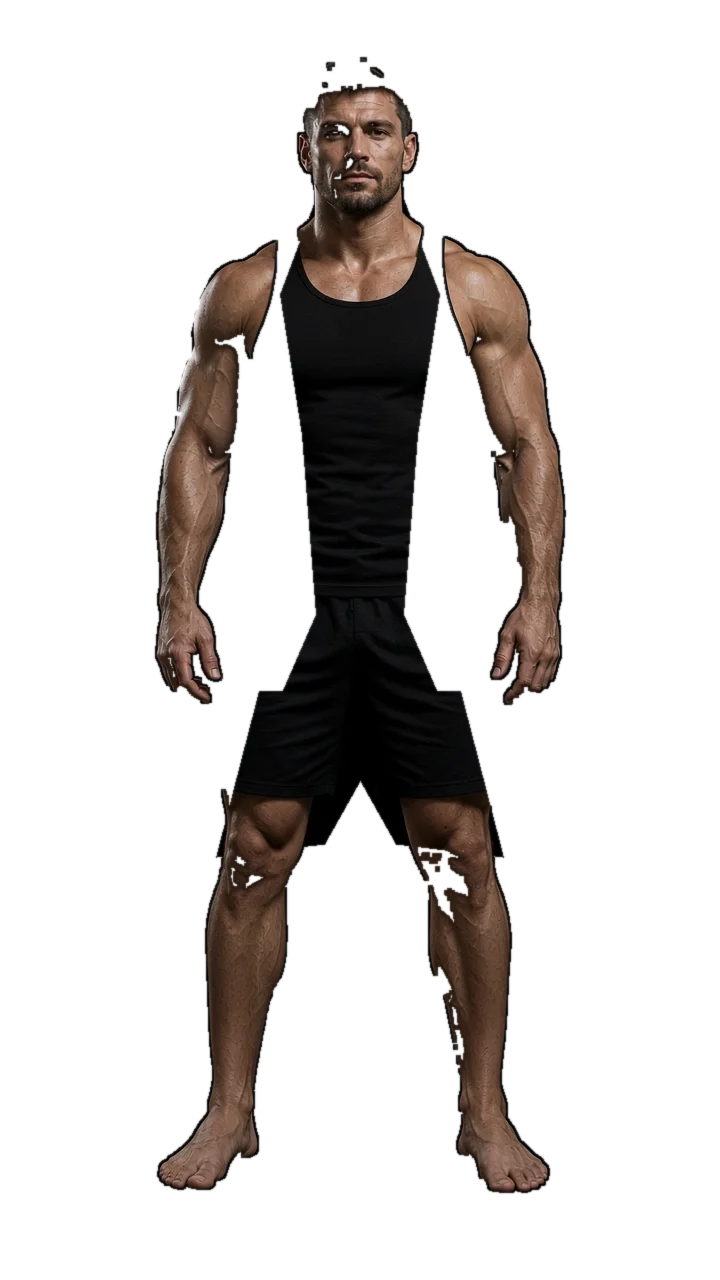
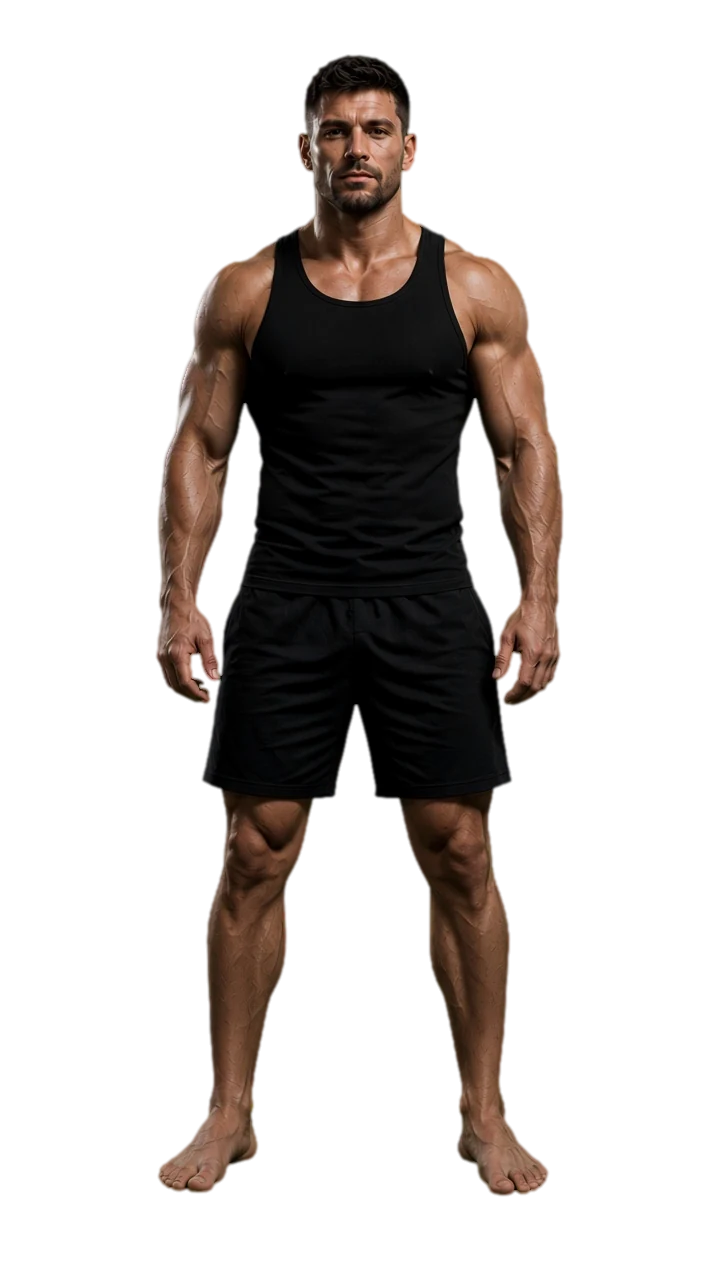
Soften bag-round glow to follow the limb silhouette.
Replace the polyline halos with a feathered cutout and blurred, dilated #CBF805 masks behind the figure, and clear the dev overlay hydration and LCP warnings.

diff --git a/src/lib/bag-glow.ts b/src/lib/bag-glow.ts
@@ -2,18 +2,27 @@ import type { BagRegion, BagSide } from "@/lib/bag-body";
 
 /**
  * Backlit halos on the forward-facing athlete cutout (720×1280).
- * Points are photo pixels. The stroke sits behind the silhouette, so the
- * body covers the middle and the neon reads as a rim.
+ * Each id is a pre-rendered #CBF805 layer: a blurred, dilated copy of that
+ * body region's alpha, drawn behind the cutout so only the rim shows.
  * Anatomical left is the viewer's right (orthodox lead side).
+ * Bounds are photo pixels of the masked region.
  */
+export const GLOW_COLOR = "#CBF805";
+
 export type BodyGlow = {
   id: string;
   label: string;
   region: BagRegion | null;
   side: "left" | "right" | "mid";
-  points: readonly (readonly [number, number])[];
-  width: number;
+  top: number;
+  bottom: number;
+  left: number;
+  right: number;
 };
+
+export function glowSrc(id: string) {
+  return `/bagwork/glow/${id}.webp`;
+}
 
 export type BodyTap = {
   id: string;
@@ -25,45 +34,31 @@ export type BodyTap = {
 };
 
 const SHAPES: readonly BodyGlow[] = [
-  { id: "neck", label: "Neck", region: "neck", side: "mid", width: 54, points: [[360, 200], [360, 250]] },
-  { id: "rear-trap", label: "Traps", region: "traps", side: "right", width: 50, points: [[300, 250], [330, 290]] },
-  { id: "lead-trap", label: "Traps", region: "traps", side: "left", width: 50, points: [[420, 250], [390, 290]] },
-  { id: "chest", label: "Chest", region: "chest", side: "mid", width: 120, points: [[360, 340], [360, 430]] },
-  { id: "core", label: "Core", region: "core", side: "mid", width: 130, points: [[360, 430], [360, 620]] },
-  { id: "rear-lat", label: "Lats", region: "lats", side: "right", width: 72, points: [[300, 440], [312, 580]] },
-  { id: "lead-lat", label: "Lats", region: "lats", side: "left", width: 72, points: [[420, 440], [408, 580]] },
-  {
-    id: "rear-arm",
-    label: "Arms",
-    region: "arms",
-    side: "right",
-    width: 100,
-    points: [[238, 294], [209, 384], [194, 461], [185, 538], [179, 614], [184, 670]],
-  },
-  {
-    id: "lead-arm",
-    label: "Arms",
-    region: "arms",
-    side: "left",
-    width: 100,
-    points: [[482, 294], [512, 384], [529, 461], [540, 538], [540, 614], [526, 670]],
-  },
-  { id: "rear-oblique", label: "Obliques", region: "obliques", side: "right", width: 70, points: [[292, 560], [304, 680]] },
-  { id: "lead-oblique", label: "Obliques", region: "obliques", side: "left", width: 70, points: [[428, 560], [416, 680]] },
-  { id: "rear-hip", label: "Hips", region: "hips", side: "right", width: 78, points: [[276, 700], [292, 790]] },
-  { id: "lead-hip", label: "Hips", region: "hips", side: "left", width: 78, points: [[444, 700], [428, 790]] },
-  { id: "rear-flexor", label: "Hip flexors", region: "hip-flexors", side: "right", width: 56, points: [[320, 720], [330, 800]] },
-  { id: "lead-flexor", label: "Hip flexors", region: "hip-flexors", side: "left", width: 56, points: [[400, 720], [390, 800]] },
-  { id: "rear-glute", label: "Glutes", region: "glutes", side: "right", width: 70, points: [[270, 740], [290, 820]] },
-  { id: "lead-glute", label: "Glutes", region: "glutes", side: "left", width: 70, points: [[450, 740], [430, 820]] },
-  { id: "rear-quad", label: "Quads", region: "legs", side: "right", width: 72, points: [[268, 830], [250, 960]] },
-  { id: "lead-quad", label: "Quads", region: "legs", side: "left", width: 72, points: [[460, 830], [478, 960]] },
-  { id: "rear-knee", label: "Knees", region: "knees", side: "right", width: 52, points: [[248, 940], [244, 1000]] },
-  { id: "lead-knee", label: "Knees", region: "knees", side: "left", width: 52, points: [[470, 940], [478, 1000]] },
-  { id: "rear-shin", label: "Shins", region: "shins", side: "right", width: 48, points: [[240, 1000], [230, 1120]] },
-  { id: "lead-shin", label: "Shins", region: "shins", side: "left", width: 48, points: [[480, 1000], [492, 1120]] },
-  { id: "rear-foot", label: "Feet", region: "feet", side: "right", width: 56, points: [[210, 1140], [230, 1180]] },
-  { id: "lead-foot", label: "Feet", region: "feet", side: "left", width: 56, points: [[500, 1140], [530, 1180]] },
+  { id: "neck", label: "Neck", region: "neck", side: "mid", top: 180, bottom: 259, left: 288, right: 431 },
+  { id: "rear-trap", label: "Traps", region: "traps", side: "right", top: 220, bottom: 309, left: 197, right: 345 },
+  { id: "lead-trap", label: "Traps", region: "traps", side: "left", top: 220, bottom: 309, left: 375, right: 525 },
+  { id: "chest", label: "Chest", region: "chest", side: "mid", top: 300, bottom: 429, left: 288, right: 431 },
+  { id: "core", label: "Core", region: "core", side: "mid", top: 420, bottom: 689, left: 202, right: 559 },
+  { id: "rear-lat", label: "Lats", region: "lats", side: "right", top: 440, bottom: 599, left: 235, right: 298 },
+  { id: "lead-lat", label: "Lats", region: "lats", side: "left", top: 440, bottom: 599, left: 421, right: 479 },
+  { id: "rear-arm", label: "Arms", region: "arms", side: "right", top: 241, bottom: 720, left: 157, right: 342 },
+  { id: "lead-arm", label: "Arms", region: "arms", side: "left", top: 241, bottom: 704, left: 401, right: 562 },
+  { id: "rear-oblique", label: "Obliques", region: "obliques", side: "right", top: 540, bottom: 699, left: 202, right: 290 },
+  { id: "lead-oblique", label: "Obliques", region: "obliques", side: "left", top: 540, bottom: 699, left: 426, right: 559 },
+  { id: "rear-hip", label: "Hips", region: "hips", side: "right", top: 680, bottom: 829, left: 203, right: 397 },
+  { id: "lead-hip", label: "Hips", region: "hips", side: "left", top: 680, bottom: 829, left: 452, right: 529 },
+  { id: "rear-flexor", label: "Hip flexors", region: "hip-flexors", side: "right", top: 720, bottom: 879, left: 255, right: 349 },
+  { id: "lead-flexor", label: "Hip flexors", region: "hip-flexors", side: "left", top: 720, bottom: 879, left: 362, right: 457 },
+  { id: "rear-glute", label: "Glutes", region: "glutes", side: "right", top: 700, bottom: 839, left: 192, right: 262 },
+  { id: "lead-glute", label: "Glutes", region: "glutes", side: "left", top: 700, bottom: 839, left: 452, right: 525 },
+  { id: "rear-quad", label: "Quads", region: "legs", side: "right", top: 800, bottom: 999, left: 207, right: 312 },
+  { id: "lead-quad", label: "Quads", region: "legs", side: "left", top: 800, bottom: 999, left: 400, right: 508 },
+  { id: "rear-knee", label: "Knees", region: "knees", side: "right", top: 930, bottom: 1039, left: 207, right: 285 },
+  { id: "lead-knee", label: "Knees", region: "knees", side: "left", top: 930, bottom: 1039, left: 430, right: 508 },
+  { id: "rear-shin", label: "Shins", region: "shins", side: "right", top: 1000, bottom: 1159, left: 171, right: 269 },
+  { id: "lead-shin", label: "Shins", region: "shins", side: "left", top: 1000, bottom: 1159, left: 445, right: 536 },
+  { id: "rear-foot", label: "Feet", region: "feet", side: "right", top: 1120, bottom: 1191, left: 159, right: 256 },
+  { id: "lead-foot", label: "Feet", region: "feet", side: "left", top: 1120, bottom: 1194, left: 458, right: 547 },
 ];
 
 const TAPS: readonly BodyTap[] = [
@@ -116,7 +111,7 @@ const REGION_SHAPES: Record<BagRegion, readonly string[]> = {
   feet: ["rear-foot", "lead-foot"],
 };
 
-/** Per-workout focus. Strokes run the length of the area and render behind the figure. */
+/** Per-workout focus. Each id is a soft rim rendered behind the figure. */
 const ROUND_FOCUS: Record<string, readonly string[]> = {
   "all-hooks": ["rear-arm", "lead-arm", "rear-oblique", "lead-oblique", "rear-hip", "lead-hip"],
   "all-overhands": ["rear-arm", "lead-arm", "rear-oblique", "lead-oblique", "rear-hip", "lead-hip"],
@@ -194,6 +189,6 @@ export function regionTapSpots(side: BagSide = "both") {
 
 /** Shoulder-to-hand span. A hook round lights the whole arm, not an elbow dot. */
 export function armSpan(glow: BodyGlow) {
-  const ys = glow.points.map((point) => point[1]);
-  return { top: Math.min(...ys), bottom: Math.max(...ys), points: glow.points.length };
+  const reach = glow.bottom - glow.top;
+  return { top: glow.top, bottom: glow.bottom, points: reach > 360 ? 6 : 2 };
 }

diff --git a/tests/bag-glow.test.ts b/tests/bag-glow.test.ts
@@ -32,7 +32,9 @@ describe("bag round glows", () => {
       expect(span.points).toBeGreaterThanOrEqual(5);
       expect(span.top).toBeLessThan(320);
       expect(span.bottom).toBeGreaterThan(640);
-      expect(arm.width).toBeGreaterThanOrEqual(80);
+      expect(span.bottom - span.top).toBeGreaterThan(400);
+      expect(arm.right - arm.left).toBeGreaterThan(40);
+      expect(arm.right - arm.left).toBeLessThan(400);
     }
     expect(glowCaption(hooks)).toBe("Arms, Obliques, Hips");
   });
@@ -63,10 +65,63 @@ describe("bag round glows", () => {
     expect(right).toContain("core");
   });
 
-  it("paints the halo behind the cutout", () => {
+  it("paints a soft limb halo behind the cutout", async () => {
     const source = fs.readFileSync(path.join(process.cwd(), "src/components/bagwork/BagBodyMap.tsx"), "utf8");
-    expect(source.indexOf('data-glow-layer="behind"')).toBeLessThan(source.indexOf("<img"));
-    expect(source).toContain('stroke="#CBF805"');
+    expect(source.indexOf('data-glow-layer="behind"')).toBeLessThan(source.indexOf("data-athlete"));
+    expect(source).toContain("data-glow-color={GLOW_COLOR}");
+    const glow = fs.readFileSync(path.join(process.cwd(), "src/lib/bag-glow.ts"), "utf8");
+    expect(glow).toContain('"#CBF805"');
+    expect(source).toContain('loading="eager"');
+    expect(source).toContain("glowSrc(id)");
+    expect(glow).toContain("/bagwork/glow/");
+    expect(source).not.toContain("<polyline");
+    expect(source).not.toContain("strokeWidth");
     expect(source).not.toContain("mixBlendMode");
+
+    const sharp = (await import("sharp")).default;
+    const file = path.join(process.cwd(), "public/bagwork/glow/rear-arm.webp");
+    const { data, info } = await sharp(file).ensureAlpha().raw().toBuffer({ resolveWithObject: true });
+    expect(info.width).toBe(720);
+    expect(info.height).toBe(1280);
+    let partial = 0;
+    let hard = 0;
+    let lime = 0;
+    let colored = 0;
+    for (let i = 0; i < data.length; i += 4) {
+      const alpha = data[i + 3] ?? 0;
+      if (alpha > 12 && alpha < 250) partial += 1;
+      if (alpha >= 250) hard += 1;
+      if (alpha > 80) {
+        colored += 1;
+        const red = data[i] ?? 0;
+        const green = data[i + 1] ?? 0;
+        const blue = data[i + 2] ?? 0;
+        if (green > red && green > blue && red > 150 && blue < 40) lime += 1;
+      }
+    }
+    expect(partial).toBeGreaterThan(20000);
+    expect(partial / (partial + hard)).toBeGreaterThan(0.35);
+    expect(lime / colored).toBeGreaterThan(0.9);
+    const torso = (520 * info.width + 360) * 4;
+    expect(data[torso + 3]).toBeLessThan(8);
+
+    const athlete = path.join(process.cwd(), "public/bagwork/athlete-front.webp");
+    const cut = await sharp(athlete).ensureAlpha().raw().toBuffer({ resolveWithObject: true });
+    const cutAlpha = cut.data;
+    const width = cut.info.width;
+    let steps = 0;
+    let prev = -1;
+    for (let y = 430; y < 620; y += 1) {
+      let edge = -1;
+      for (let x = 0; x < width; x += 1) {
+        if ((cutAlpha[(y * width + x) * 4 + 3] ?? 0) > 128) {
+          edge = x;
+          break;
+        }
+      }
+      if (prev >= 0 && edge >= 0 && Math.abs(edge - prev) >= 3) steps += 1;
+      if (edge >= 0) prev = edge;
+    }
+    expect(steps).toBe(0);
   });
 });

diff --git a/src/components/bagwork/BagBodyMap.tsx b/src/components/bagwork/BagBodyMap.tsx
@@ -1,41 +1,33 @@
 "use client";
 
-import { useId } from "react";
 import { BAG_REGION_LABELS, formatBagRegions, type BagRegion, type BagSide } from "@/lib/bag-body";
-import { focusGlows, glowCaption, regionTapSpots, type BodyGlow } from "@/lib/bag-glow";
+import { focusGlows, GLOW_COLOR, glowCaption, glowSrc, regionTapSpots } from "@/lib/bag-glow";
 
 const ATHLETE = "/bagwork/athlete-front.webp";
 
-function BehindGlow({ glows }: { glows: readonly BodyGlow[] }) {
-  const filterId = `body-rim-${useId().replace(/:/g, "")}`;
+function BehindGlow({ ids }: { ids: readonly string[] }) {
+  if (!ids.length) return null;
   return (
-    <svg
-      className="pointer-events-none absolute inset-0 z-0 h-full w-full"
-      viewBox="0 0 720 1280"
-      preserveAspectRatio="none"
-      aria-hidden
-      data-body-glows
+    <div
+      className="pointer-events-none absolute inset-0 z-0"
       data-glow-layer="behind"
+      data-glow-color={GLOW_COLOR}
+      aria-hidden
     >
-      <defs>
-        <filter id={filterId} x="-60%" y="-60%" width="220%" height="220%">
-          <feGaussianBlur stdDeviation="14" />
-        </filter>
-      </defs>
-      {glows.map((glow) => (
-        <polyline
-          key={glow.id}
-          data-body-glow={glow.id}
-          points={glow.points.map(([x, y]) => `${x},${y}`).join(" ")}
-          fill="none"
-          stroke="#CBF805"
-          strokeWidth={glow.width}
-          strokeLinecap="round"
-          strokeLinejoin="round"
-          filter={`url(#${filterId})`}
+      {ids.map((id) => (
+        // The layer is a blurred dilation of the limb mask. Straight alpha has to survive.
+        // eslint-disable-next-line @next/next/no-img-element
+        <img
+          key={id}
+          src={glowSrc(id)}
+          alt=""
+          width={720}
+          height={1280}
+          data-body-glow={id}
+          className="absolute inset-0 h-full w-full"
         />
       ))}
-    </svg>
+    </div>
   );
 }
 
@@ -64,14 +56,17 @@ export function BagBodyMap({
     <figure className="space-y-3" data-body-map data-body-side={side} data-body-round={workoutKey ?? ""}>
       <div className="overflow-hidden rounded-2xl bg-[#0c0e11]">
         <div className="relative">
-          <BehindGlow glows={glows} />
-          {/* The cutout has to stay transparent so the rim stays behind the limbs. */}
+          <BehindGlow ids={glows.map((glow) => glow.id)} />
+          {/* The cutout stays transparent so the rim stays behind the limbs. */}
           {/* eslint-disable-next-line @next/next/no-img-element */}
           <img
             src={ATHLETE}
+            data-athlete
             alt={caption ? `Athlete facing forward. ${emphasis}` : "Athlete facing forward on a black background."}
             width={720}
             height={1280}
+            loading="eager"
+            fetchPriority="high"
             className="relative z-[1] block h-auto w-full"
           />
           {interactive

diff --git a/src/app/layout.tsx b/src/app/layout.tsx
@@ -1,5 +1,6 @@
 import type { Metadata, Viewport } from "next";
 import { Anton, Geist, Geist_Mono } from "next/font/google";
+import Script from "next/script";
 import { AppSplash } from "@/components/AppSplash";
 import "./globals.css";
 
@@ -50,11 +51,9 @@ export default function RootLayout({ children }: LayoutProps<"/">) {
       suppressHydrationWarning
     >
       <body className="min-h-full bg-background font-sans text-foreground">
-        <script
-          dangerouslySetInnerHTML={{
-            __html: `try{if(sessionStorage.getItem("svg_splash_seen")==="1")document.documentElement.dataset.splash="done"}catch(e){}`,
-          }}
-        />
+        <Script id="splash-seen" strategy="beforeInteractive">
+          {`try{if(sessionStorage.getItem("svg_splash_seen")==="1")document.documentElement.dataset.splash="done"}catch(e){}`}
+        </Script>
         <AppSplash />
         {children}
       </body>

diff --git a/src/components/home/MassGauge.tsx b/src/components/home/MassGauge.tsx
@@ -32,14 +32,18 @@ function polar(r: number, deg: number) {
   return { x: CX + r * Math.cos(a), y: CY - r * Math.sin(a) };
 }
 
+function round2(value: number) {
+  return Math.round(value * 100) / 100;
+}
+
 function outwardTick(deg: number, length: number) {
   const rim = polar(R + STROKE, deg);
   const a = (deg * Math.PI) / 180;
   return {
-    x1: rim.x,
-    y1: rim.y,
-    x2: rim.x + Math.cos(a) * length,
-    y2: rim.y - Math.sin(a) * length,
+    x1: round2(rim.x),
+    y1: round2(rim.y),
+    x2: round2(rim.x + Math.cos(a) * length),
+    y2: round2(rim.y - Math.sin(a) * length),
   };
 }
 

diff --git a/src/components/home/HomeQuickActions.tsx b/src/components/home/HomeQuickActions.tsx
@@ -88,6 +88,7 @@ function ActionTile({
         src={action.src}
         alt={action.alt}
         fill
+        priority={action.href === "/training"}
         sizes="(max-width: 390px) 50vw, (max-width: 640px) 45vw, 320px"
         className="object-cover object-center"
       />
